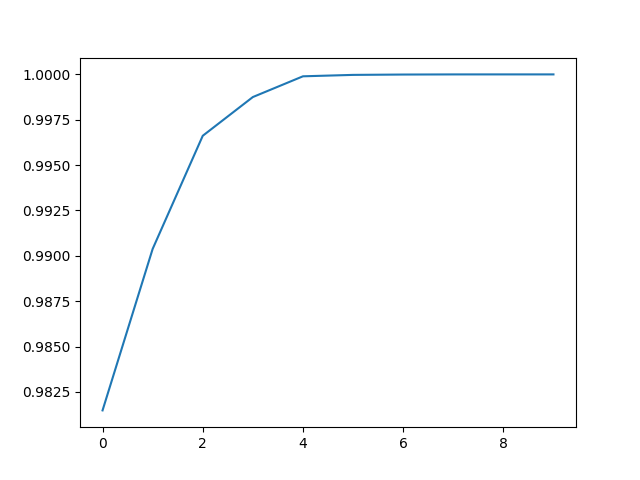
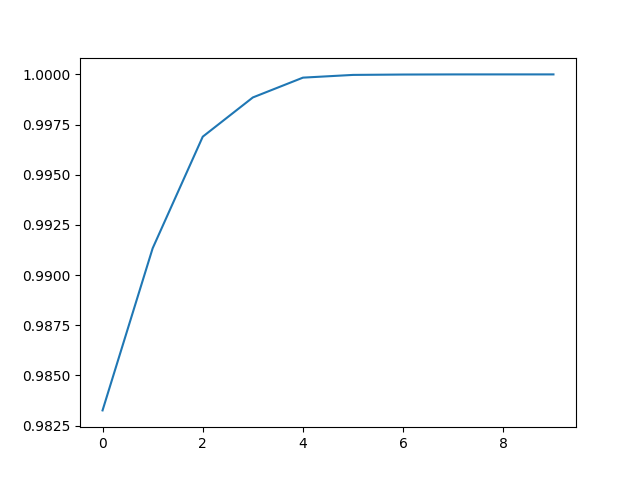
add: `constants.py`, update `.gitignore`, use matplotlib for figure, start on adding more passes

diff --git a/core/evolution-master.py b/core/evolution-master.py
@@ -4,18 +4,8 @@ import pygad as pg
 import pygad.kerasga as pgkGA
 import keras as keras
 import subprocess
-
-potential_passes = [
-    "loop-unroll",
-    "sroa,mem2reg",
-    "loop-simplify,loop-rotate",
-    "instcombine",
-    "instsimplify",
-    "loop-vectorize",
-    "adce",
-    "reassociate",
-    "licm",
-]
+import matplotlib.pyplot
+from config import potential_passes
 
 feature_cols = ["nBasicBlocks","nConditionalJMPs","nInsts"
                                 ,"nFPInsts","nIntInsts","nLoads","nStores",
@@ -86,7 +76,13 @@ model = constructNN()
 def on_generation(ga_instance):
     print(f"Generation = {ga_instance.generations_completed}")
     print(f"Fitness    = {ga_instance.best_solution()[1]}")
-    ga_instance.plot_fitness(title="PyGAD & Keras - Iteration vs. Fitness", linewidth=4)
+    
+    # ga_instance.plot_fitness(title="PyGAD & Keras - Iteration vs. Fitness", linewidth=4)
+    matplotlib.pyplot.figure()
+    matplotlib.pyplot.plot(ga_instance.best_solutions_fitness)
+    matplotlib.pyplot.savefig("PyGAD_figure.jpg")
+    # matplotlib.pyplot.show()
+
     return
 
 
@@ -112,7 +108,12 @@ def main():
     ga_instance.run()
 
     # After the generations complete, some plots are showed that summarize how the outputs/fitness values evolve over generations.
-    ga_instance.plot_fitness(title="PyGAD & Keras - Iteration vs. Fitness", linewidth=4)
+    # ga_instance.plot_fitness(title="PyGAD & Keras - Iteration vs. Fitness", linewidth=4)
+    matplotlib.pyplot.figure()
+    matplotlib.pyplot.plot(ga_instance.best_solutions_fitness)
+    matplotlib.pyplot.savefig("PyGAD_figure.jpg")
+    # matplotlib.pyplot.show()
+
 
 if(__name__ == "__main__"):
     main()

diff --git a/core/compile.py b/core/compile.py
@@ -2,6 +2,7 @@ import os
 import sys
 import subprocess
 import logging
+from config import potential_passes
 
 logging.basicConfig(stream=sys.stderr, level=logging.INFO)
 
@@ -43,18 +44,6 @@ compile_args = {
     "trisolv": "",
     "trmm": "",
 }
-
-potential_passes = [
-    "loop-unroll",
-    "sroa,mem2reg",
-    "loop-simplify,loop-rotate",
-    "instcombine",
-    "instsimplify",
-    "loop-vectorize",
-    "adce",
-    "reassociate",
-    "licm",
-]
 
 
 def generate_llvm(test):

diff --git a/core/config.py b/core/config.py
@@ -1,0 +1,11 @@
+potential_passes = [
+    "loop-unroll",
+    "sroa,mem2reg",
+    "loop-simplify,loop-rotate",
+    "instcombine",
+    "instsimplify",
+    "loop-vectorize",
+    "adce",
+    "reassociate",
+    "loop-mssa(licm<no-allowspeculation>)",
+]
